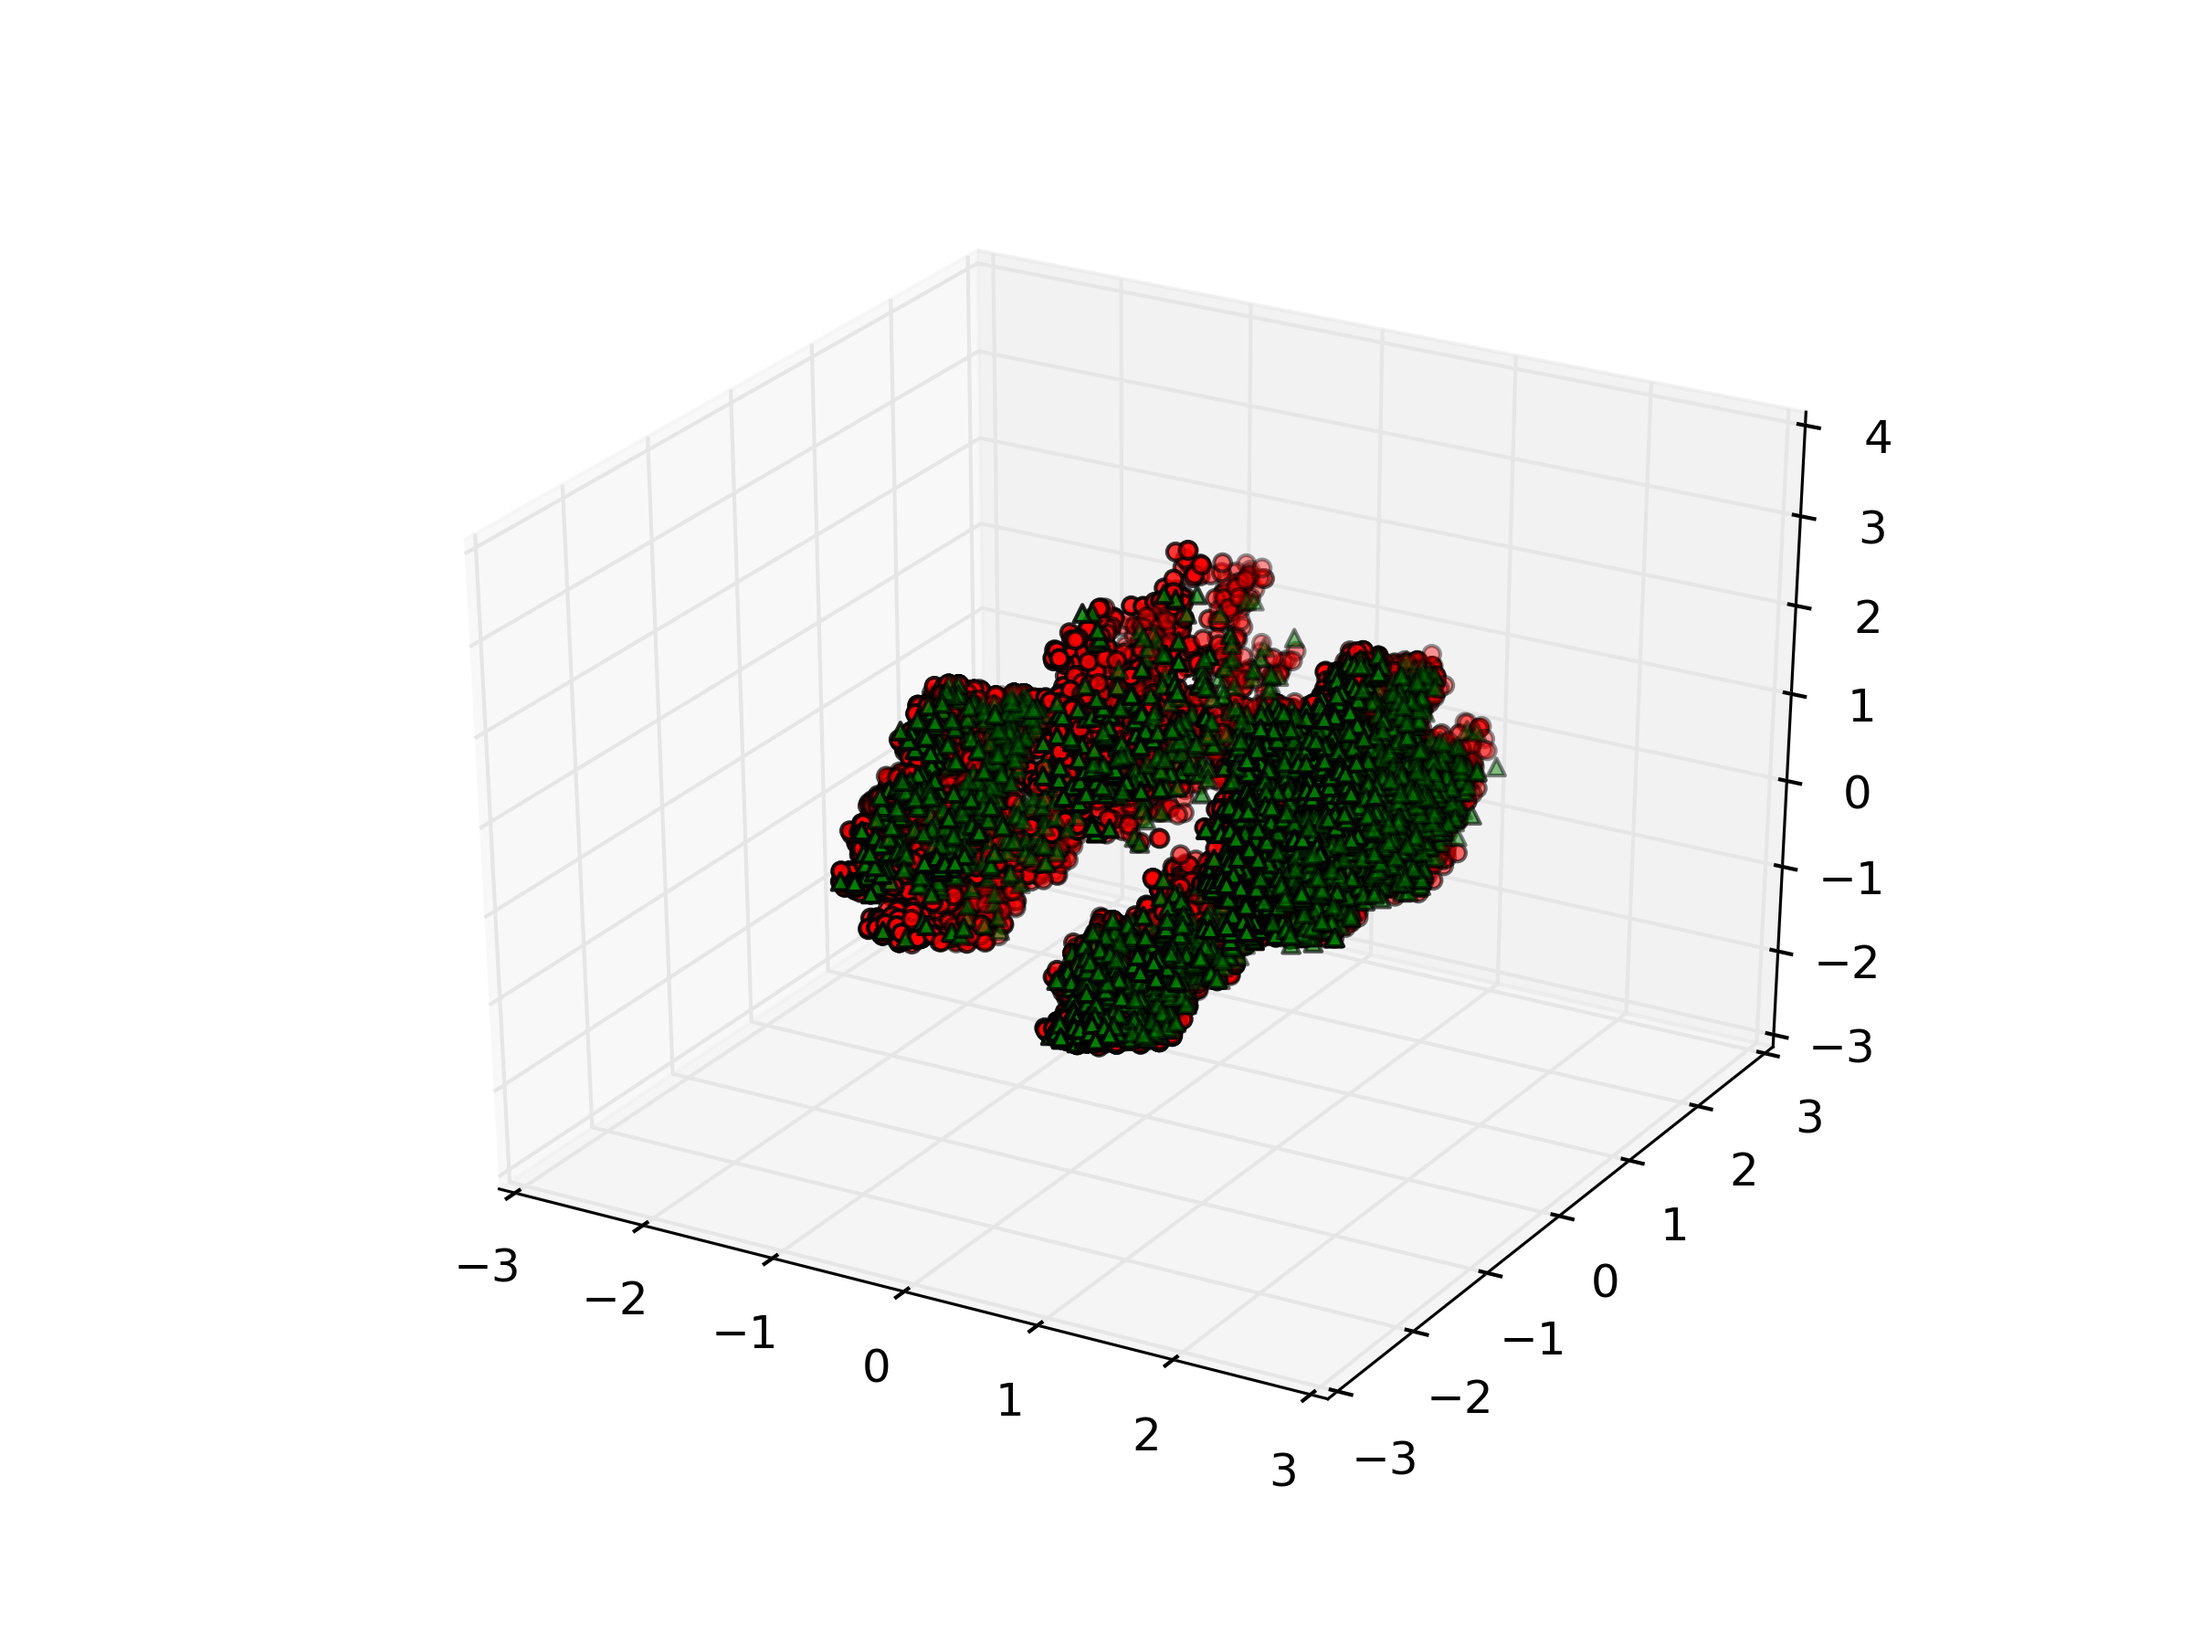
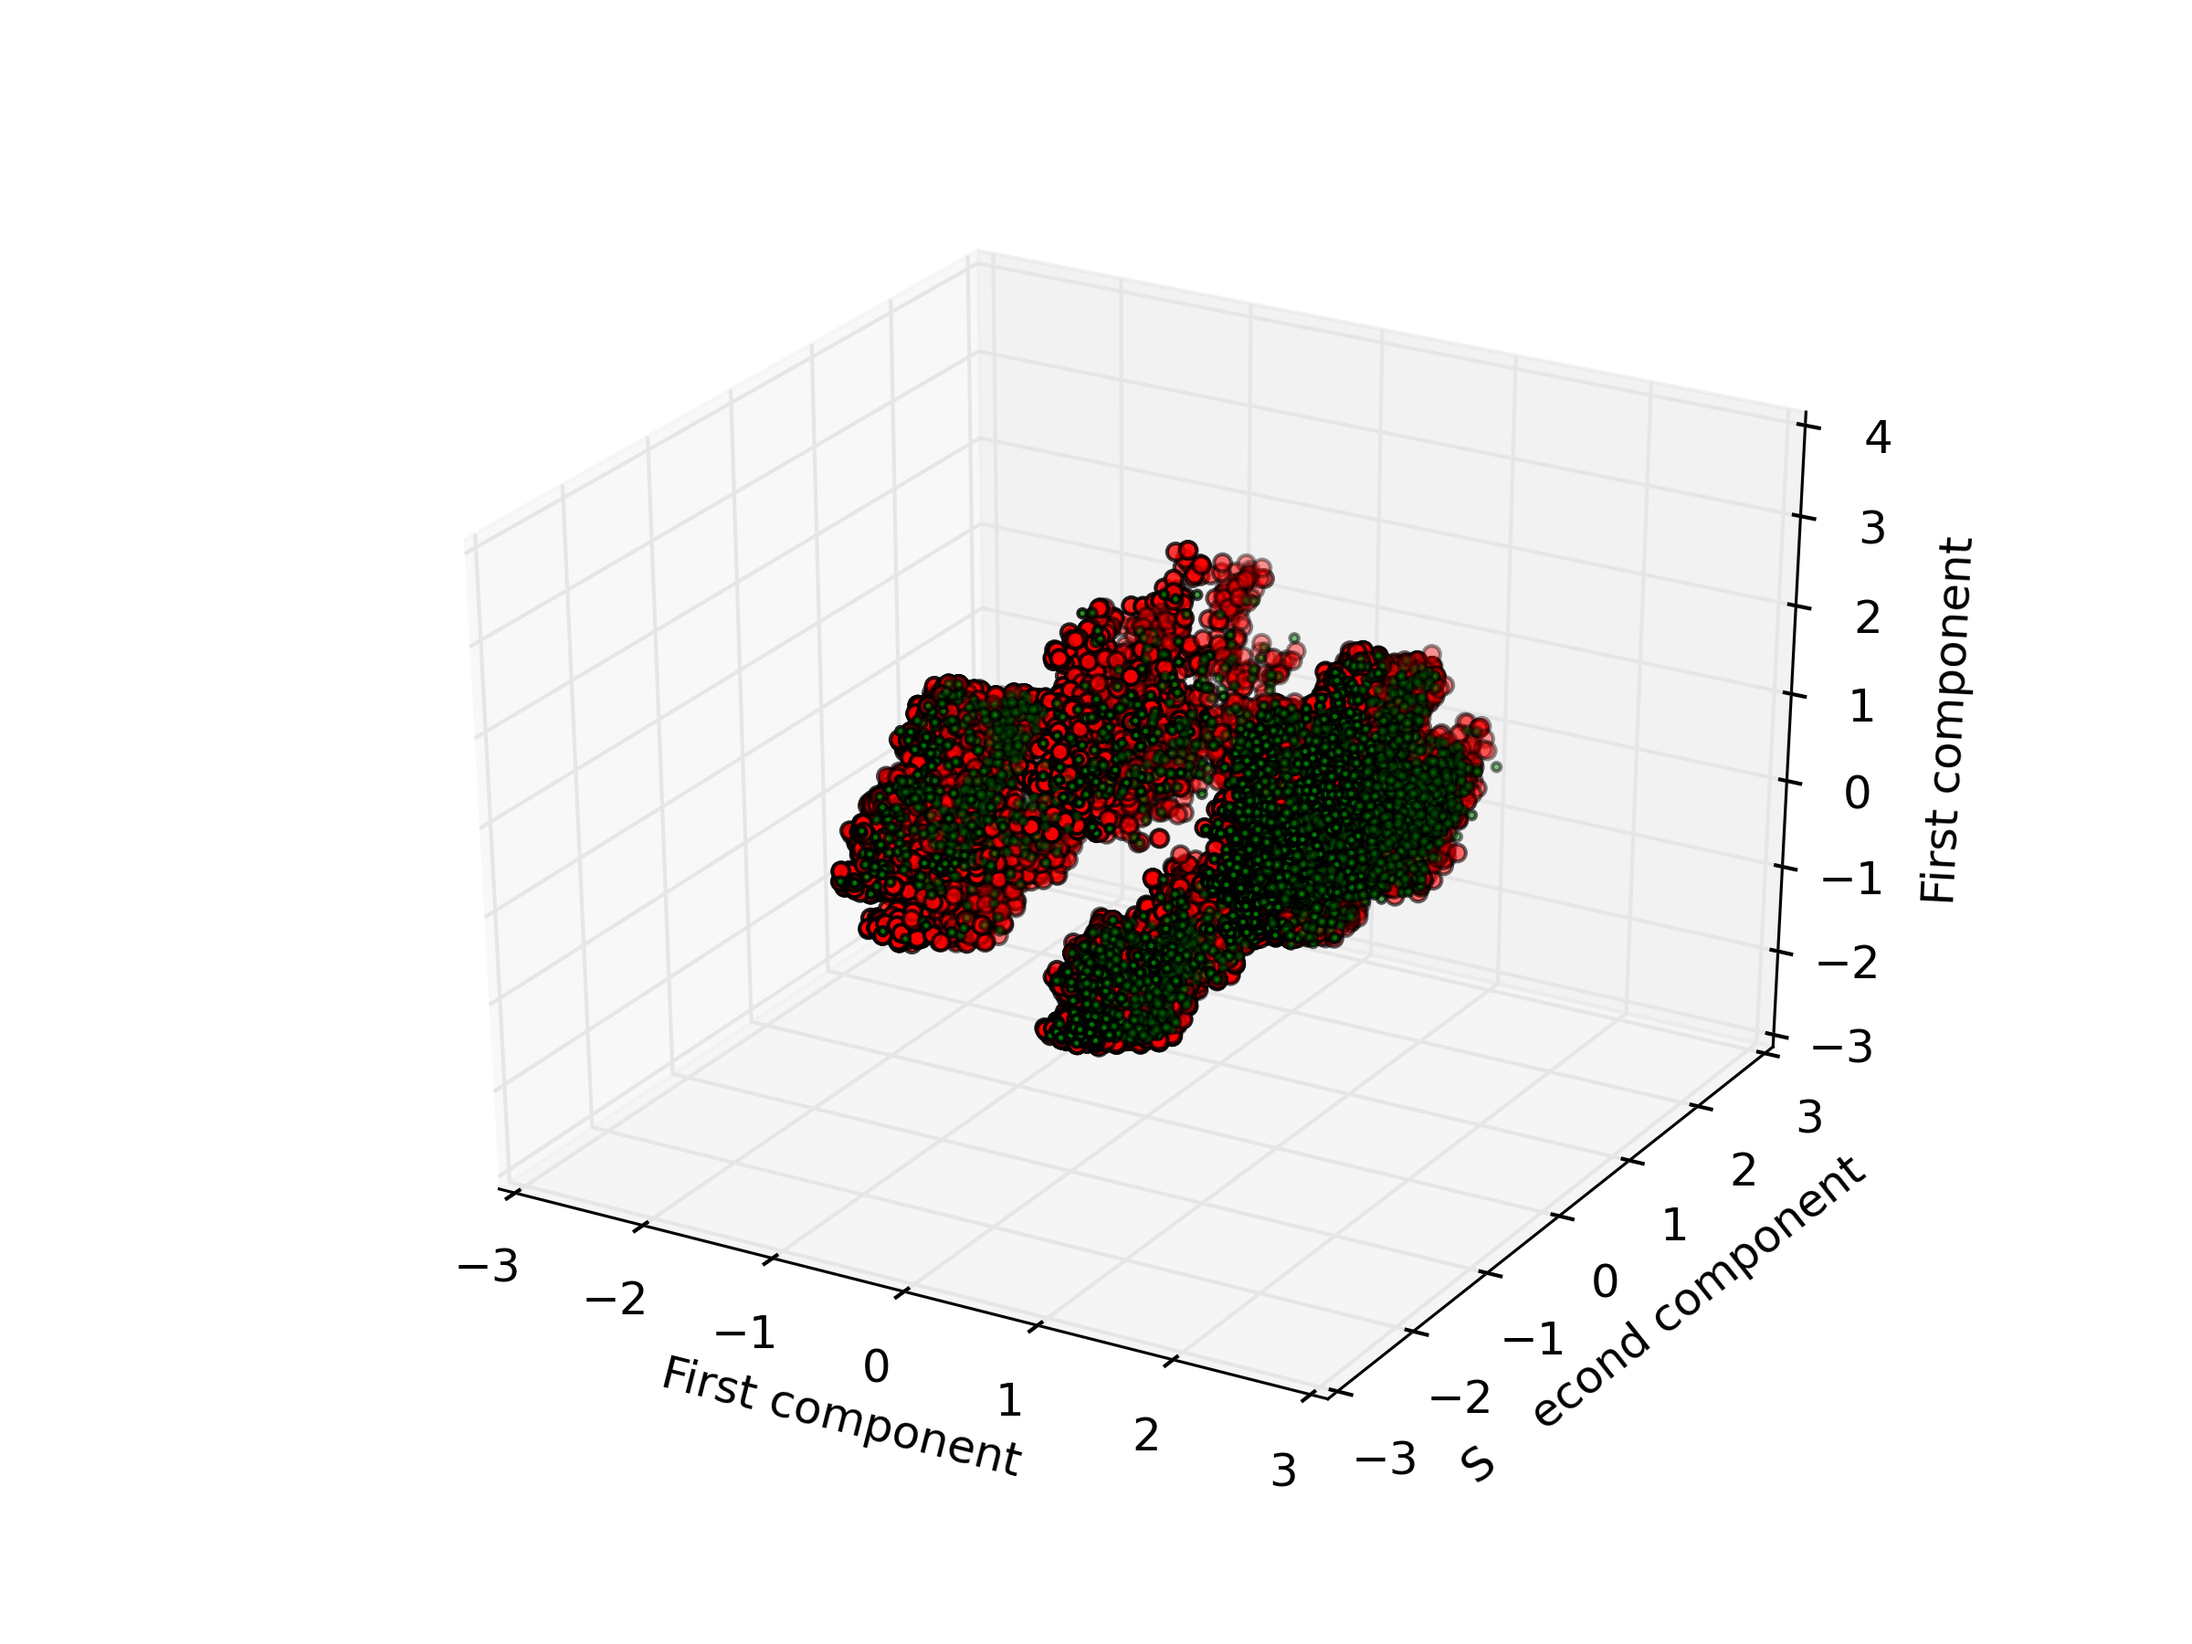
Moved the plotting method to helper.py and cleaned up the code

diff --git a/Codes/Chapter5/reduce_pca.py b/Codes/Chapter5/reduce_pca.py
@@ -6,17 +6,21 @@ sys.path.append('..')
 import helper as hlp
 import pandas as pd
 import numpy as np
-
 import mlpy as ml
-
-import matplotlib.pyplot as plt
-from mpl_toolkits.mplot3d import Axes3D
 
 @hlp.timeit
 def reduce_PCA(x):
+    '''
+        Reduce the dimensions using Principal Component
+        Analysis 
+    '''
+    # create the PCA object
     pca = ml.PCA(whiten=True)
+
+    # learn the principal components from all the features
     pca.learn(x)
 
+    # return only 3 principal components
     return pca.transform(x, k=3)
 
 # the file name of the dataset
@@ -25,38 +29,17 @@ r_filename = '../../Data/Chapter5/bank_contacts.csv'
 # read the data
 csv_read = pd.read_csv(r_filename)
 
+# split into independent and dependent features
 x = csv_read[csv_read.columns[:-1]]
 y = csv_read[csv_read.columns[-1]]
-y_np = np.array(y)
 
+# reduce the dimensionality
 z = reduce_PCA(x)
 
-# print(y.unique())
+# save the chart
+file_save_params = {
+    'filename': '../../Data/Chapter5/charts/pca_3d.png', 
+    'dpi': 300
+}
 
-# plt.set_cmap(plt.cm.Paired)
-fig = plt.figure()
-ax = fig.add_subplot(111, projection='3d')
-
-color_marker = [('r','o'),('g','^'),('b','.')]
-
-for i in range(0, len(y.unique())):
-    ax.scatter(
-        z[y_np == i, 0], 
-        z[y_np == i, 1], 
-        z[y_np == i, 2], 
-        c=color_marker[i][0], 
-        marker=color_marker[i][1])
-
-    # print(i,z[y[y == i], 0], 
-    #     z[y[y == i], 1], 
-    #     z[y[y == i], 2], 
-    #     color_marker[i][0], 
-    #     color_marker[i][1])
-
-
-# print(z[0:3], z[y_np == 0, 0])
-
-# plt.show()
-plt.savefig('../../Data/Chapter5/charts/pca_3d.png', dpi=300)
-
-# print(csv_read.columns[:-1])
+hlp.plot_components(z, y, **file_save_params)
